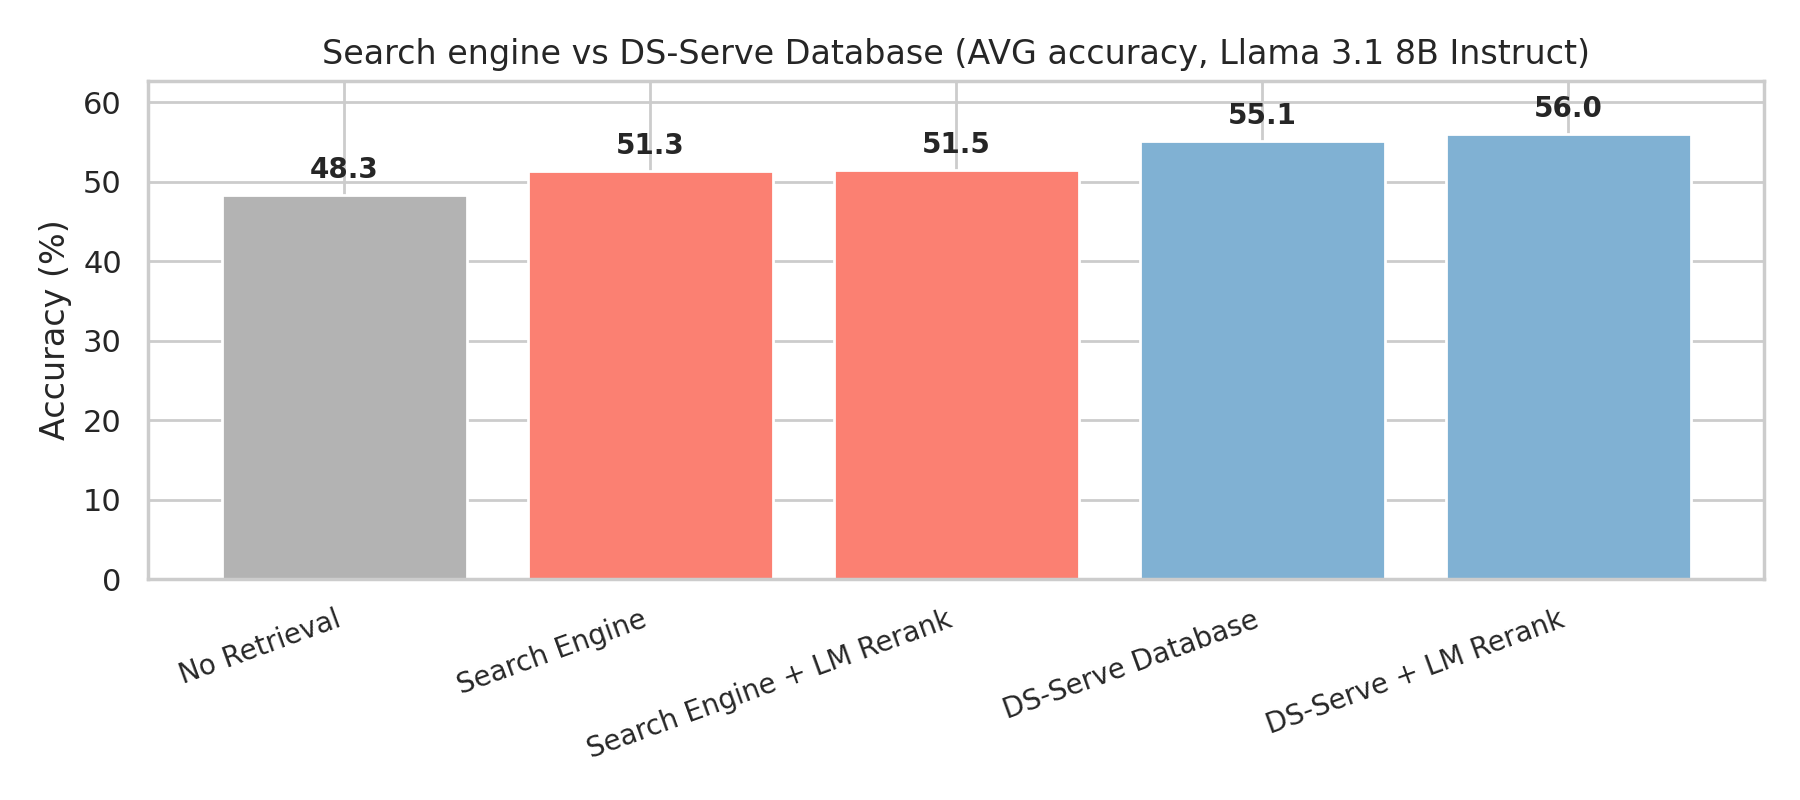
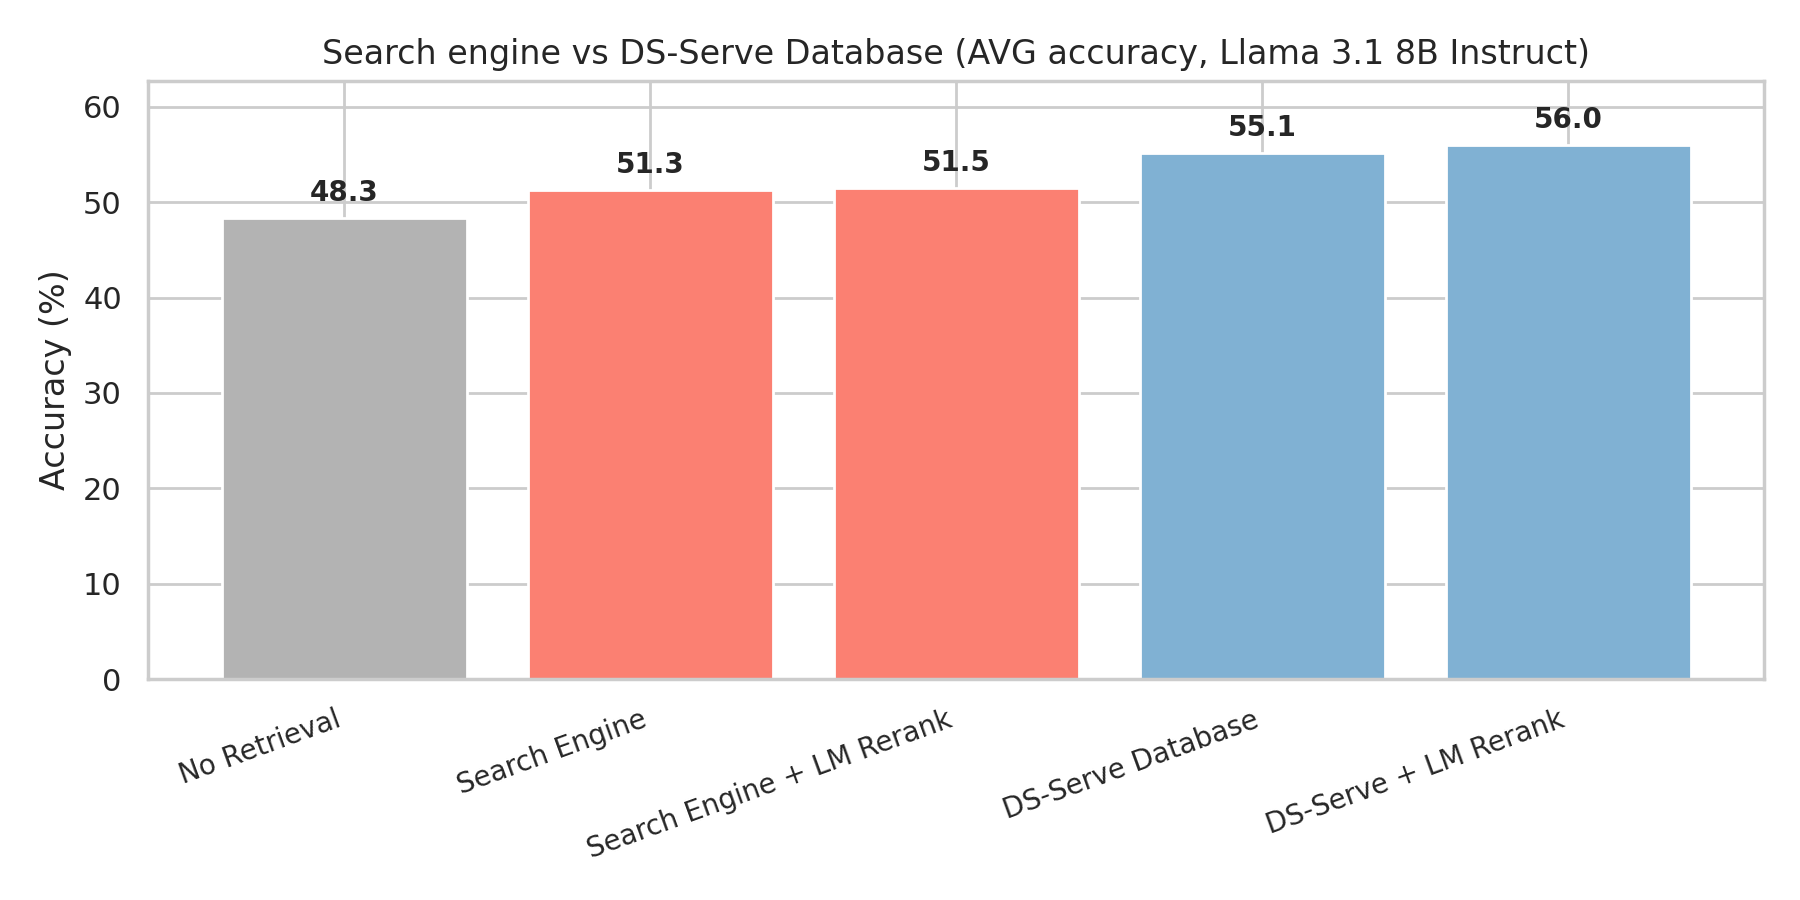
hidden ugly footer

diff --git a/docs/assets/infini-gram.css b/docs/assets/infini-gram.css
@@ -78,3 +78,7 @@ a:hover { text-decoration: underline; text-underline-offset: 3px; }
 .site-header .site-title:hover { text-decoration: none !important; }
 .site-header .site-nav { float: none !important; display: inline-block; margin-left: 0; }
 
+/* Hide Minima theme footer and duplicate page titles on all pages */
+.site-footer { display: none !important; }
+.post-title, .page-title { display: none; }
+

diff --git a/scripts/plot_search_engine_throughput_compare.py b/scripts/plot_search_engine_throughput_compare.py
@@ -93,7 +93,7 @@ def main() -> None:
         ("DS-Serve Database", 55.1),
         ("DS-Serve + LM Rerank", 56.0),
     ]
-    plt.figure(figsize=(9, 4))
+    plt.figure(figsize=(9, 4.5))  # same height as latency/throughput figure
     if sns:
         sns.set_theme(style="whitegrid")
     ax = plt.gca()

diff --git a/docs/index.md b/docs/index.md
@@ -364,7 +364,7 @@ This represents a significantly larger datastore than most prior work, and to th
 <summary><b>Exact &amp; Diverse (optional toggles)</b></summary>
 <p><b>Exact Search</b> reranks ANN candidates by recomputing exact similaritiy scores using GritLM instead of approxmimation used by ANN. This mode is the best for accuracy-sensitive queries and cached follow-ups for higher speed on similar/same queries.</p>
 <p><b>Diverse Search</b> applies MMR to reduce redundancy: <code>Score(i) = λ·sim(q,d_i) − (1−λ)·max<sub>j∈S</sub> sim(d_i,d_j)</code>. Useful to diversify results when there is noticeable redundancy.</p>
-<p>Use these toggles when you need higher precision (Exact) or to de-duplicate results (Diverse); keep them off for the fastest latency/QPS. They are omitted from the web UI because Exact Search and Diverse Search are both recommended to use with a GPU for optimized latency. If you have the compute you can enable them by building the framework from the source repo following the guidelines as a custom option.</p>
+<p>Use these toggles when you need higher precision (Exact) or to de-duplicate results (Diverse); keep them off for the fastest latency/QPS. We have confirmed their functionalities in our extensive testing, but they are omitted from the pulic web UI because Exact Search and Diverse Search are both recommended to use with a GPU for optimized latency. If you have the compute you can enable them. Simply build the framework from the source repo and enable these custom options following the guidelines.</p>
 </details>
 
 ---
